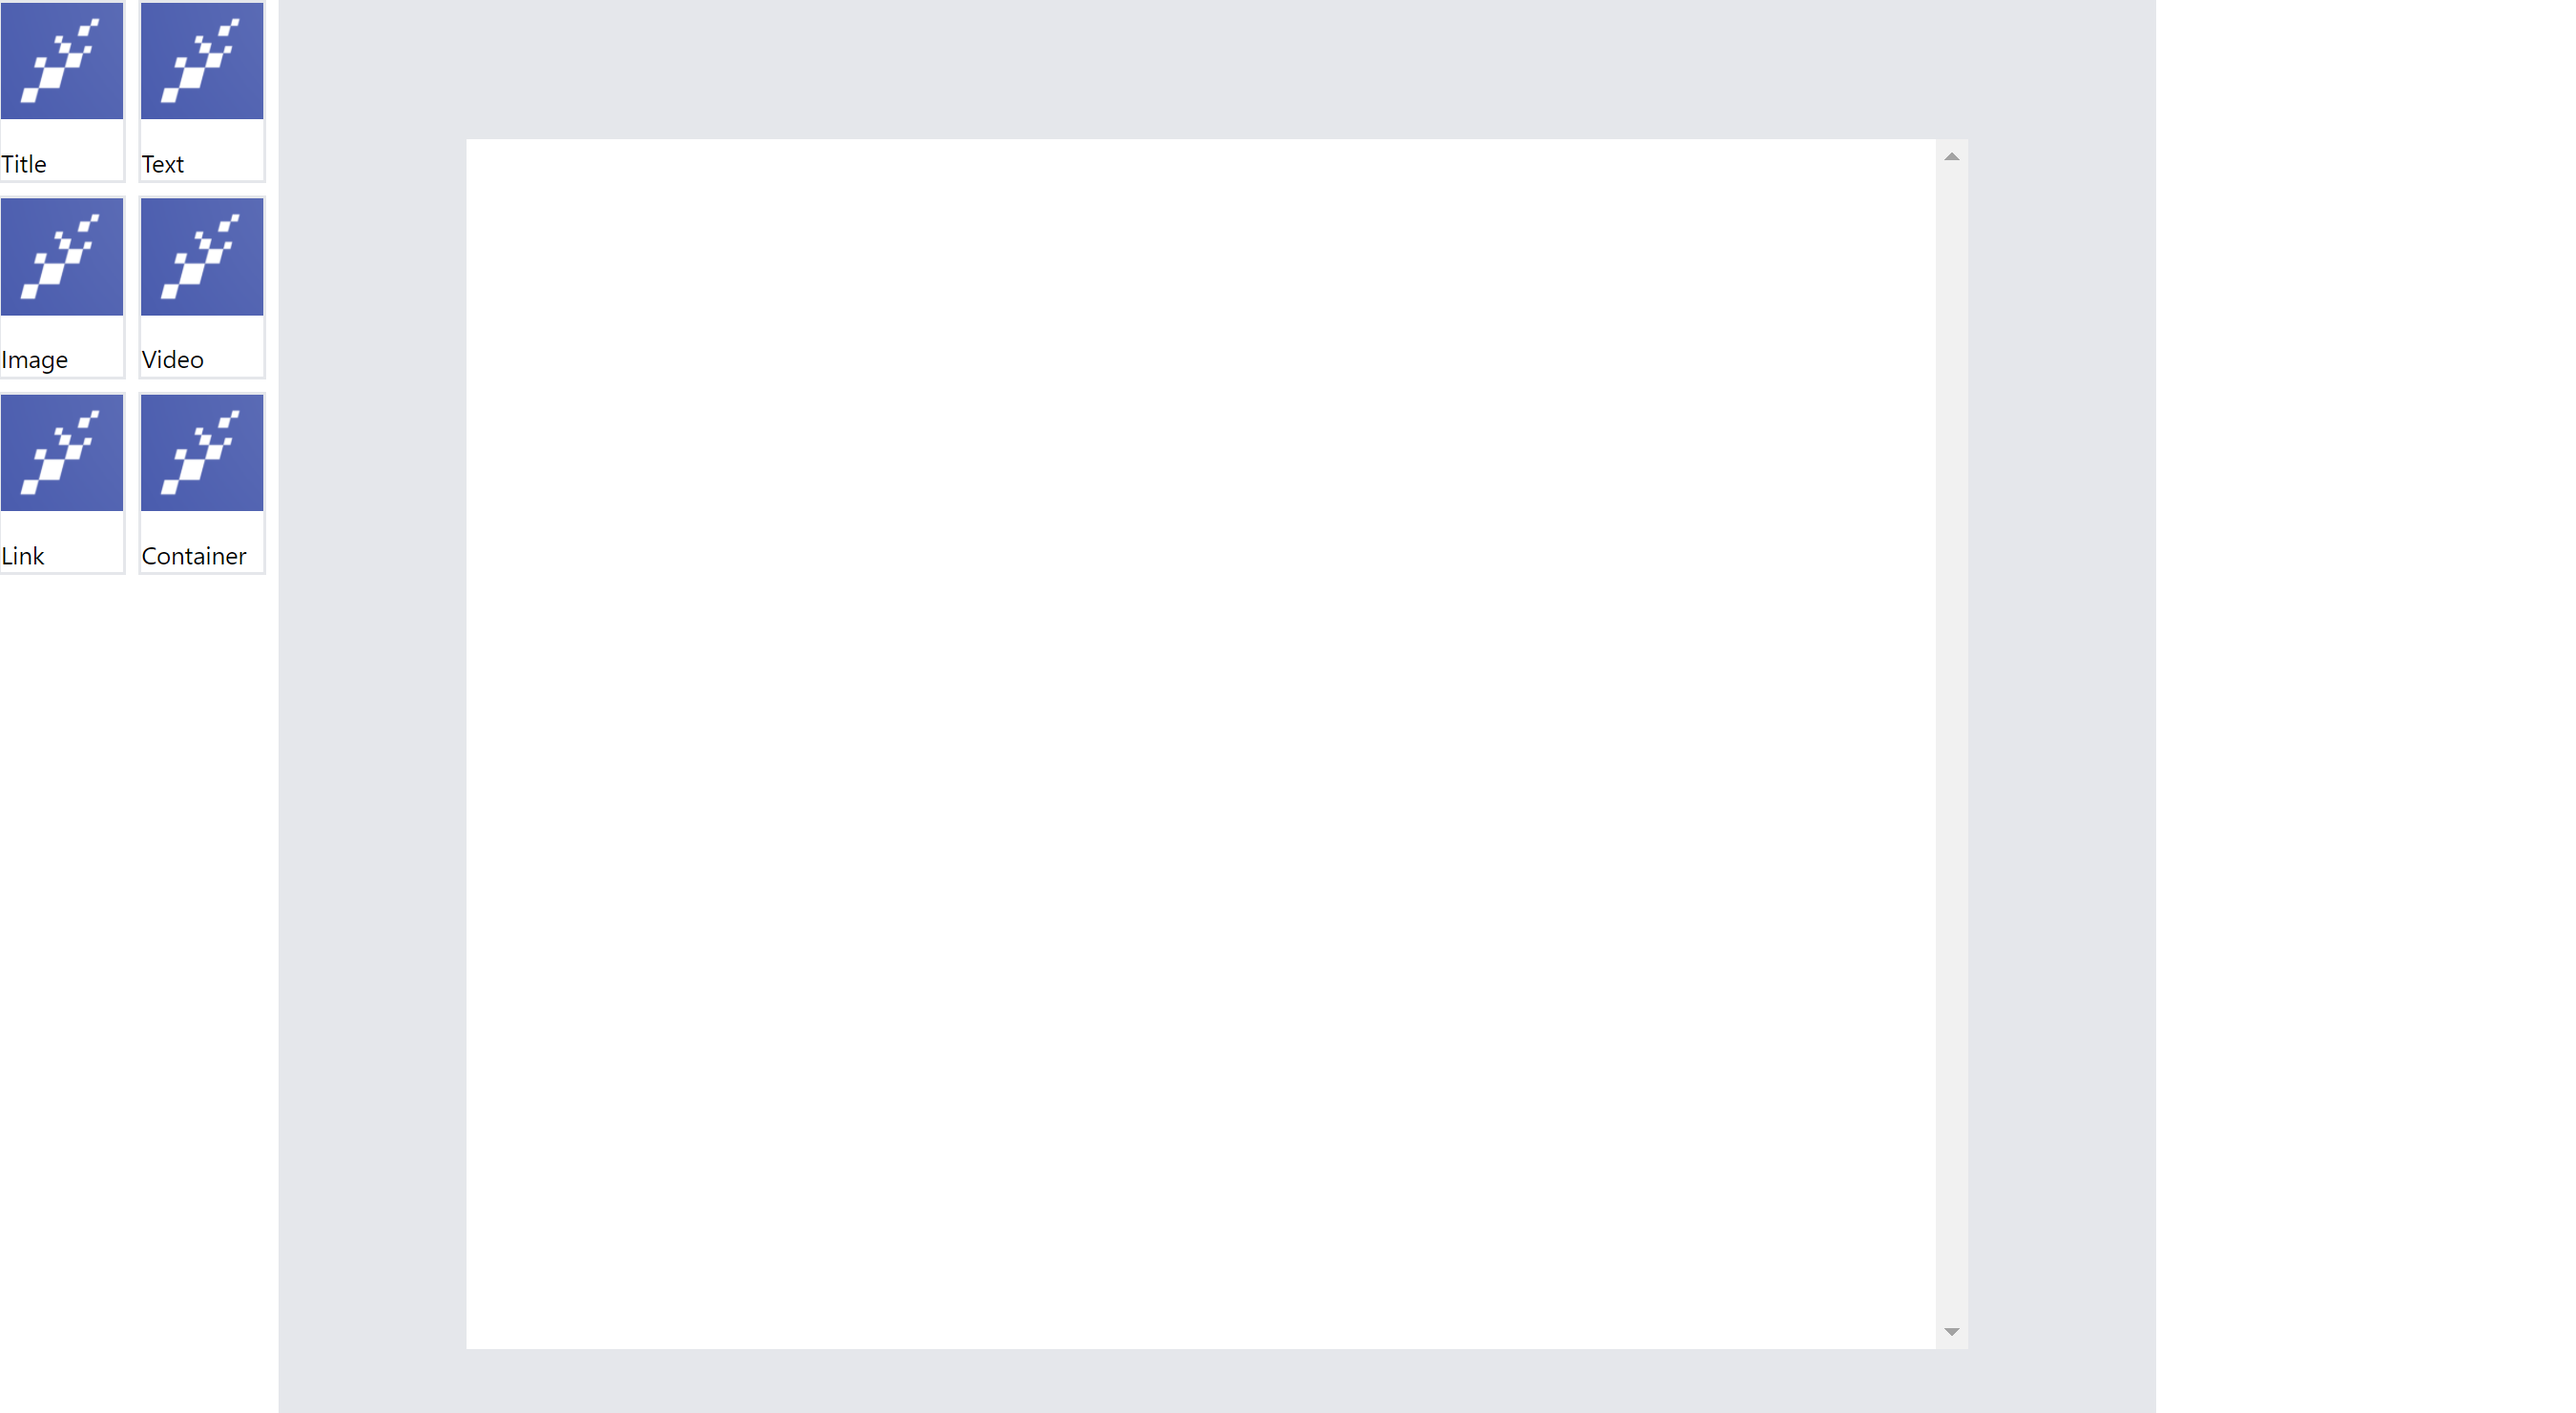
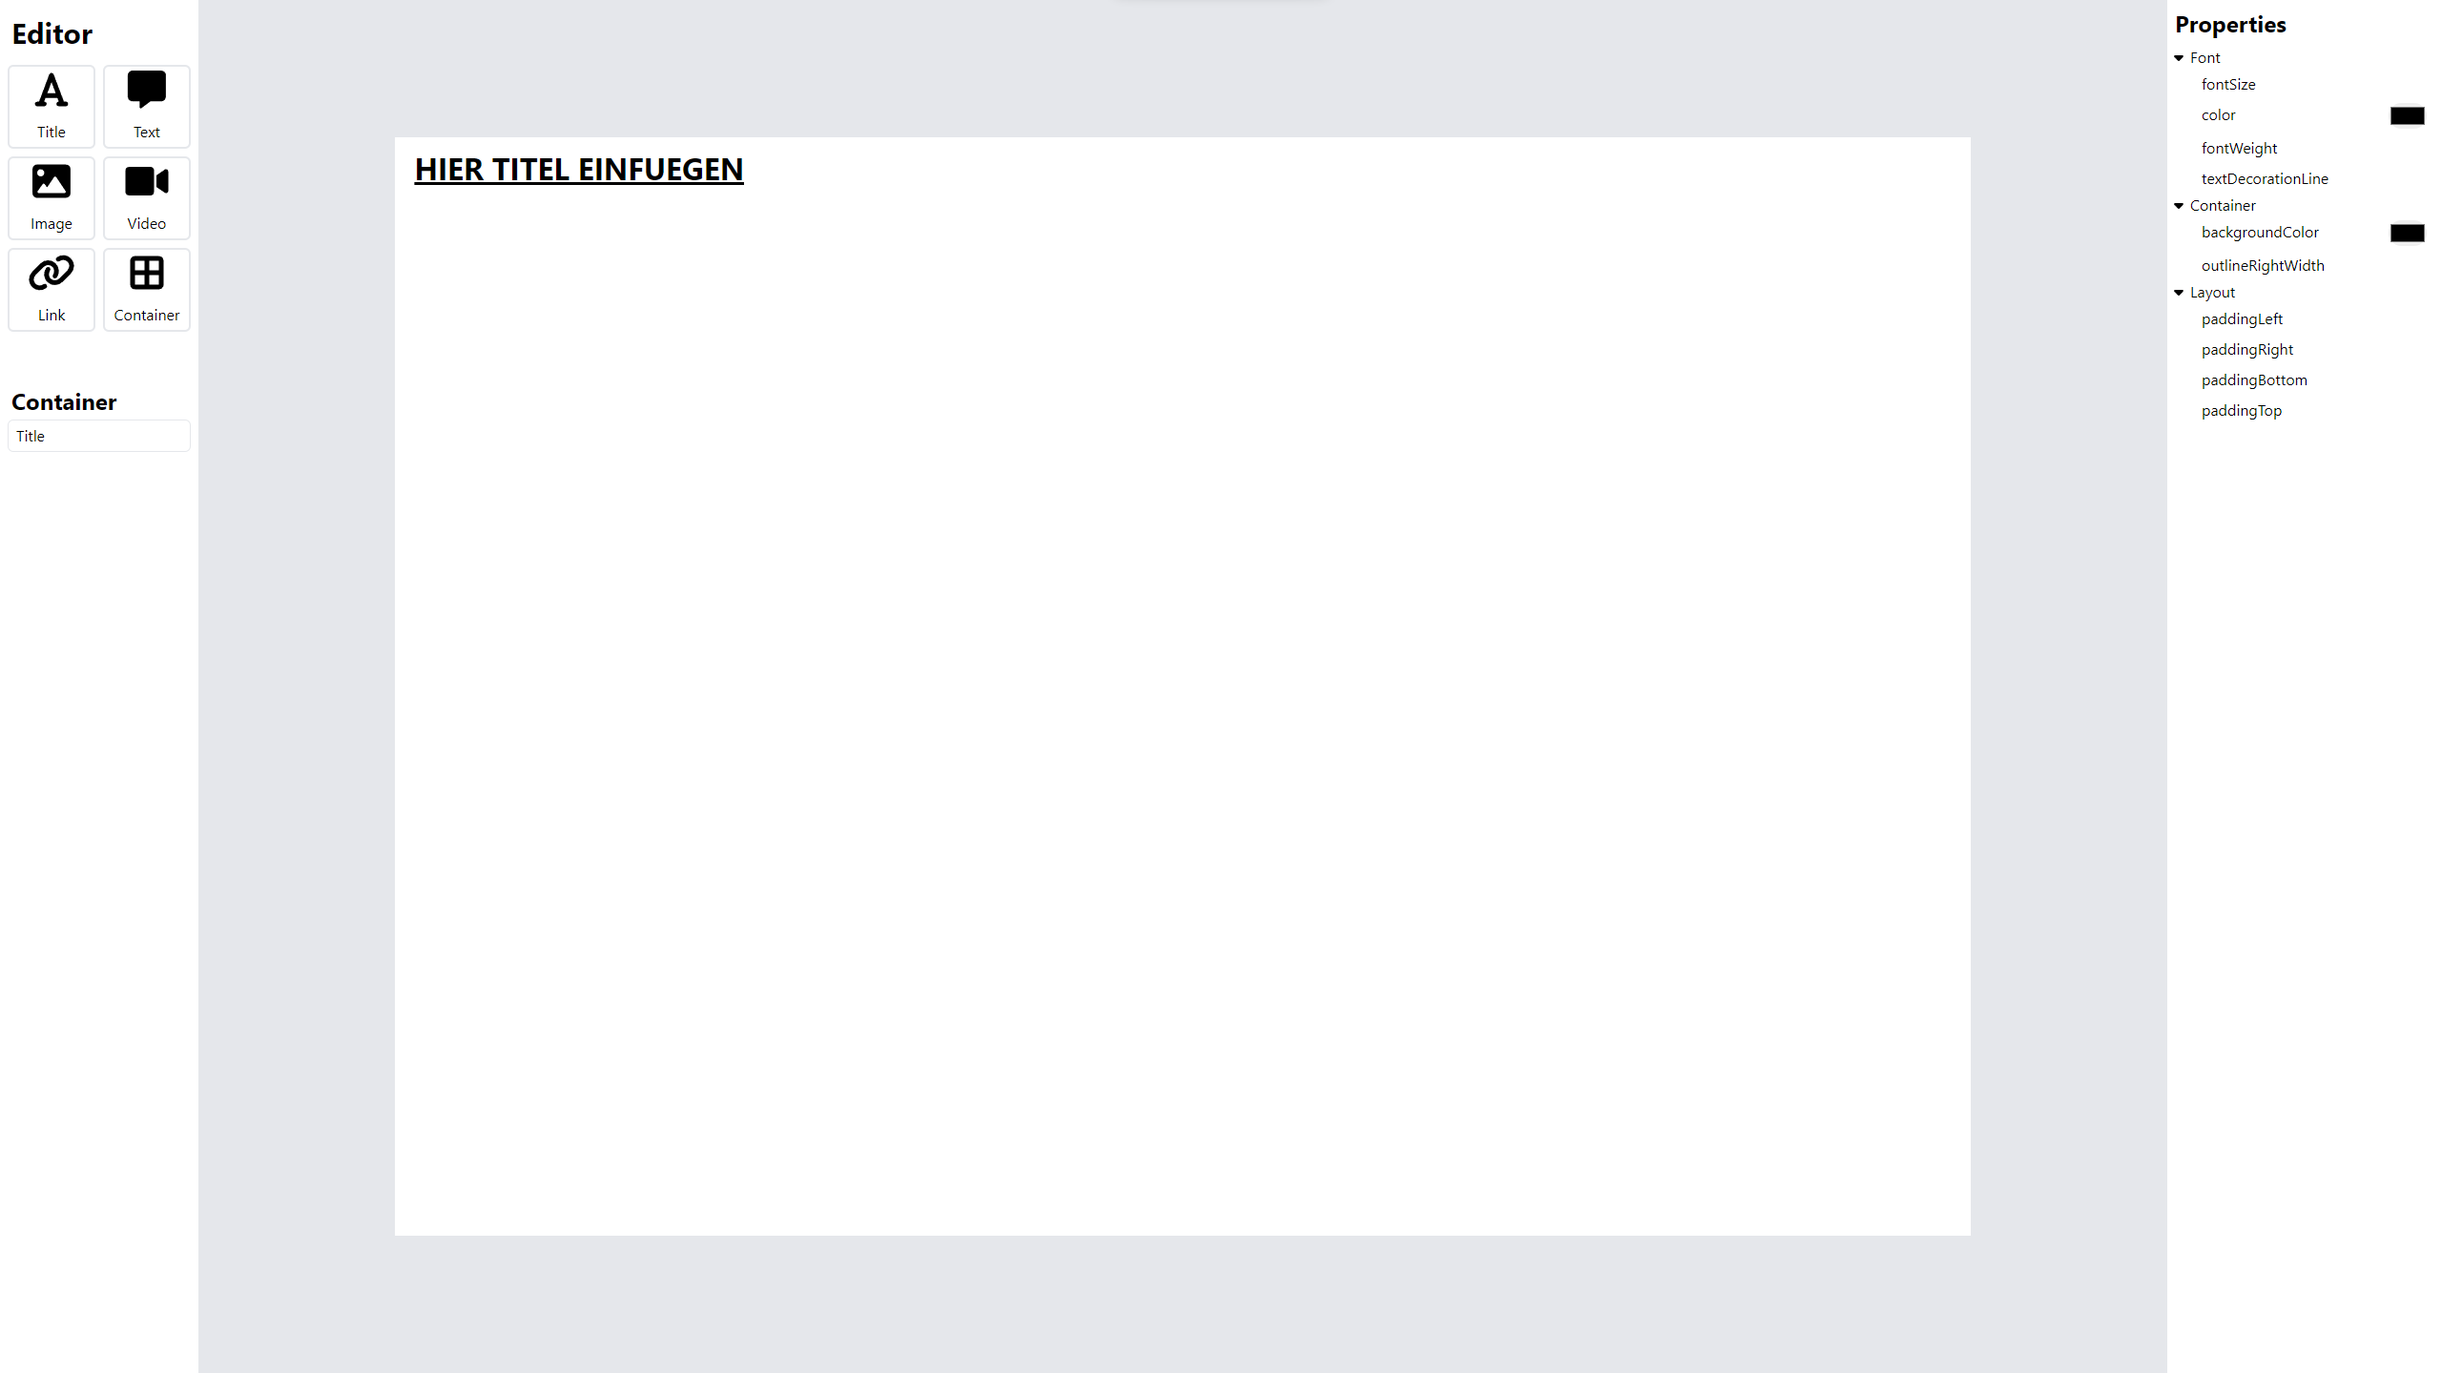
Updated Tutorial page with new editor photos

diff --git a/tourify/src/screens/Documentation.jsx b/tourify/src/screens/Documentation.jsx
@@ -4,11 +4,14 @@ import tut1 from "../assets/images/tutorial1.png"
 import tut2 from "../assets/images/tut2.png"
 import tut3 from "../assets/images/tut3.png"
 import tut4 from "../assets/images/tut4.png"
+import tut5 from "../assets/images/tut5.png"
 import logo from '../assets/images/logo-text.png';
 
 class Documentation extends Component {
   render() {
     return (
+      //Seite für ein kurzes Tutorial für den Editor
+
       <div className="flex justify-center">
         <div className="w-full h-full column-1 bg-[#4053A9] flex-col flex ">
           <div className='flex justify-between'>
@@ -37,16 +40,17 @@ class Documentation extends Component {
             <img className="rounded-lg mt-10" src={tut4} alt="Editor" />
             <p className='text-white mb-3'>Bild 1.4 - Editor page</p>
             <p className="text-white mb-3 text-2xl">Sobald man ein Projekt erstellt hat, kann man dieses im Editor bearbeiten. <br /> 
-              Hier kann man Elemente wie Bilder, Videos und Audio-Dateien per drag and drop hinzufügen. 
+              Hier kann man Elemente wie Bilder, Videos und Audio-Dateien per drag and drop hinzufügen. Auf der rechten Seite kann man dann noch ihre 
+              Eigenschaften Anpassen.
             </p>
 
 
-            <img className="rounded-lg mt-10" src={tut4} alt="Editor" />
+            <img className="rounded-lg mt-10" src={tut5} alt="Editor" />
             <p className='text-white mb-3'>Bild 1.4 - Editor page</p>
-            <p className="text-white mb-3 text-2xl"> Hier ist eine Beispielseite für ein Museum erstellt worden. <br /> 
+            <p className="text-white mb-3 text-2xl"> Hier wurde beispielsweiße ein Video eingefügt, die Seite könnte für eine Disco erstellt werden. <br /> 
               Anschließend kann man die Station abspeichern und ein QR-Code wird generiert, welcher auf diese Seite verweißt.
             </p>
-            
+          
           </div>
 
         </div>
